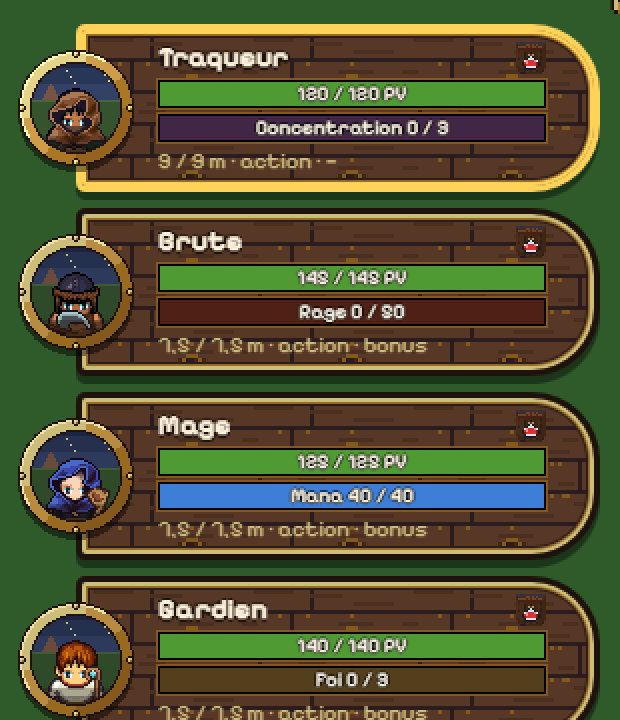
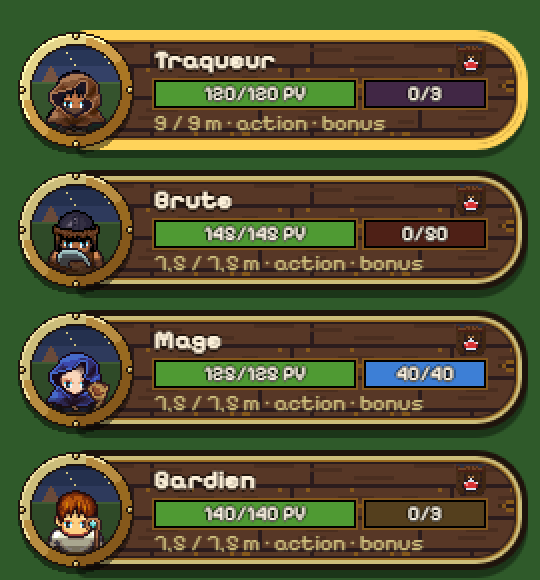
Le combat : les fiches des héros en version compacte
La vie et la ressource sur une même ligne (la ressource se reconnaît à sa couleur, son nom au survol), le bandeau plus bas (54 px) et plus court (256 px), les fiches plus serrées. Validé par Paolitus dans son navigateur.

diff --git a/src/entrainement/entrainement.css b/src/entrainement/entrainement.css
@@ -37,20 +37,22 @@ kbd { display: inline-block; min-width: 1.1em; padding: 0 3px; border: 1px solid
 /* les héros, à gauche : PV et ressource sur une ligne, la jauge dessous */
 /* les fiches des héros : le médaillon du héros du camp (33_cadres.js, ×1) et son bandeau de bois (DESIGN.fr.md §5) */
 :root { --res-rage: #c8402e; --res-mana: #3d7fd6; --res-concentration: #9a5ad6; --res-foi: #e0b04a; --res-energie: #4fa83a; --res-elan: #2fa79a; --vie-allie: #4f9a33; }
-.equipe-terrain { position: fixed; left: 8px; top: 72px; z-index: 8; display: grid; gap: 8px; width: 292px; }
-.fiche-heros { position: relative; display: block; width: 100%; min-height: 72px; margin: 0; padding: 0 0 0 30px; border: 0; background: none; text-align: left; cursor: pointer; color: var(--creme); font: 500 12px var(--titre); }
+.equipe-terrain { position: fixed; left: 8px; top: 72px; z-index: 8; display: grid; gap: 4px; width: 256px; }
+.fiche-heros { position: relative; display: block; width: 100%; min-height: 60px; margin: 0; padding: 0 0 0 30px; border: 0; background: none; text-align: left; cursor: pointer; color: var(--creme); font: 500 12px var(--titre); }
 .fiche-heros .fh-medaillon { position: absolute; left: 0; top: calc(50% - 30px); z-index: 1; width: 60px; height: 60px; image-rendering: pixelated; filter: drop-shadow(0 3px 0 rgba(0, 0, 0, .45)); }
-/* le bout arrondi fait 34 px : le texte et les jauges s'arrêtent avant la courbe */
-.fiche-heros .fh-bandeau { display: grid; gap: 3px; min-height: 72px; box-sizing: border-box; padding: 6px 24px 6px 38px; align-content: center;
-  background: var(--tex-bois) 0 0 / 80px 48px, var(--bois); border: 3px solid var(--bois-nuit); border-radius: 5px 34px 34px 5px;
+/* le bout arrondi fait 26 px : le texte et les jauges s'arrêtent avant la courbe (la version compacte : 54 px de haut) */
+.fiche-heros .fh-bandeau { display: grid; gap: 2px; min-height: 54px; margin: 3px 0; box-sizing: border-box; padding: 4px 18px 4px 36px; align-content: center;
+  background: var(--tex-bois) 0 0 / 80px 48px, var(--bois); border: 3px solid var(--bois-nuit); border-radius: 5px 26px 26px 5px;
   box-shadow: inset 0 0 0 2px var(--laiton-clair), inset 0 0 0 3px var(--laiton-fonce), inset 0 0 0 4px var(--bois-fonce), 0 4px 0 rgba(0, 0, 0, .4); image-rendering: pixelated; }
 .fiche-heros .fh-titre { display: flex; align-items: center; gap: 6px; min-width: 0; }
-.fiche-heros strong { font: 700 14px/16px var(--titre); text-shadow: var(--contour-or); white-space: nowrap; overflow: hidden; text-overflow: ellipsis; }
+.fiche-heros strong { font: 700 13px/15px var(--titre); text-shadow: var(--contour-or); white-space: nowrap; overflow: hidden; text-overflow: ellipsis; }
 .fiche-heros .fh-potion { margin-left: auto; display: inline-flex; }
 .fiche-heros .fh-potion img { width: 15px; height: 16px; image-rendering: pixelated; }
 .fiche-heros .fh-potion.bue img { filter: grayscale(1); opacity: .35; }
 /* une jauge (DESIGN §5) : bois nuit, bordure noire 1 px, anneau bois clair, remplissage plein, le texte dedans */
-.fh-jauge { position: relative; display: block; height: 12px; background: var(--bois-nuit); border: 1px solid #000; box-shadow: 0 0 0 1px var(--bois-clair); overflow: hidden; }
+.fh-jauges { display: grid; grid-template-columns: 1.65fr 1fr; gap: 4px; }
+.fh-jauges.seule { grid-template-columns: 1fr; }
+.fh-jauge { position: relative; display: block; min-width: 0; height: 12px; background: var(--bois-nuit); border: 1px solid #000; box-shadow: 0 0 0 1px var(--bois-clair); overflow: hidden; }
 .fh-jauge .rempli { position: absolute; left: 0; top: 0; bottom: 0; background: var(--vie-allie); transition: width .25s; }
 .fh-jauge.pv.bas .rempli { background: var(--braise); }
 .fh-jauge .texte { position: relative; display: block; text-align: center; font: 500 10px/12px var(--titre); color: #fff7e6; white-space: nowrap;
@@ -61,7 +63,7 @@ kbd { display: inline-block; min-width: 1.1em; padding: 0 3px; border: 1px solid
 .fh-jauge[data-res="Énergie"] { --c: var(--res-energie); } .fh-jauge[data-res="Élan"] { --c: var(--res-elan); }
 .fh-jauge.res { background: color-mix(in srgb, var(--c) 28%, var(--bois-nuit)); }
 .fh-jauge.res .rempli { background: var(--c); }
-.fiche-heros .fh-ligne { font: 500 11px/13px var(--titre); color: var(--laiton-clair); white-space: nowrap; overflow: hidden; text-overflow: ellipsis; }
+.fiche-heros .fh-ligne { font: 500 11px/12px var(--titre); color: var(--laiton-clair); white-space: nowrap; overflow: hidden; text-overflow: ellipsis; }
 .fh-etats { color: var(--braise); }
 .fiche-heros.choisi .fh-bandeau { border-color: var(--or); box-shadow: inset 0 0 0 2px var(--or), inset 0 0 0 3px var(--laiton-fonce), inset 0 0 0 4px var(--bois-fonce), 0 4px 0 rgba(0, 0, 0, .4); }
 .fiche-heros.choisi .fh-medaillon, .fiche-heros:hover .fh-medaillon { filter: drop-shadow(0 3px 0 rgba(0, 0, 0, .45)) brightness(1.12); }
@@ -210,7 +212,7 @@ kbd { display: inline-block; min-width: 1.1em; padding: 0 3px; border: 1px solid
 
 @media (max-width: 1280px) { .bas-terrain { max-width: calc(100vw - 16px); } .aide-terrain { display: none; } }
 @media (max-width: 900px) {
-  .equipe-terrain { width: 240px; } .droite-terrain { width: 200px; } .coin-phase { width: 200px; } 
+  .equipe-terrain { width: 220px; } .droite-terrain { width: 200px; } .coin-phase { width: 200px; } 
 }
 
 /* le choix de l'équipe, à l'accueil (#76) */

diff --git a/src/entrainement/interface.js b/src/entrainement/interface.js
@@ -475,16 +475,19 @@ function dessinerTout() {
     const u = combat.U(id), H = HEROS[u.type], actif = groupe.includes(id) && !u.ko;
     const etats = etatsDe(u);
     const pv = Math.max(0, u.pv), part = (v, max) => `width:${max ? Math.max(0, Math.min(100, (v / max) * 100)) : 0}%`;
-    const jauge = (classe, v, max, texte, extra = {}) => el('span', { class: `fh-jauge ${classe}`, role: 'meter', 'aria-valuemin': '0', 'aria-valuemax': String(max), 'aria-valuenow': String(v), 'aria-label': texte, ...extra },
-      el('span', { class: 'rempli', style: part(v, max) }), el('span', { class: 'texte' }, texte));
+    // une jauge : le texte écrit dedans (court), et le texte entier pour les lecteurs d'écran et au survol
+    const jauge = (classe, v, max, texte, court = texte, extra = {}) => el('span', { class: `fh-jauge ${classe}`, role: 'meter', 'aria-valuemin': '0', 'aria-valuemax': String(max), 'aria-valuenow': String(v), 'aria-label': texte, title: texte, ...extra },
+      el('span', { class: 'rempli', style: part(v, max) }), el('span', { class: 'texte' }, court));
     return el('button', { type: 'button', class: `fiche-heros${ui.sel === id ? ' choisi' : ''}${u.ko ? ' ko' : ''}${actif ? '' : ' attend'}${aMoi(id) ? '' : ' ami'}`, dataset: { heros: id }, onclick: () => choisirHeros(id),
       'aria-label': `${H.nom}${u.ko ? ', KO' : ''} : ${pv} sur ${u.pvMax} PV${u.res.max ? `, ${u.res.type} ${u.res.v} sur ${u.res.max}` : ''}` },
       el('img', { class: 'fh-medaillon', src: medaillonDe(u.type), alt: '' }),
       el('span', { class: 'fh-bandeau' },
         el('span', { class: 'fh-titre' }, el('strong', {}, H.nom, u.ko ? ' · KO' : ''), reseau ? joueurFiche(id) : null,
           el('span', { class: `fh-potion${u.potion ? '' : ' bue'}`, title: u.potion ? 'Sa potion' : 'Potion bue' }, el('img', { src: icone('potion'), alt: u.potion ? 'potion' : 'potion bue' }))),
-        jauge(`pv${u.pv <= u.pvMax * 0.3 ? ' bas' : ''}`, pv, u.pvMax, `${pv} / ${u.pvMax} PV`),
-        u.res.max ? jauge('res', u.res.v, u.res.max, `${u.res.type} ${u.res.v} / ${u.res.max}`, { dataset: { res: u.res.type } }) : null,
+        // la vie et la ressource sur une ligne (la version compacte) : la ressource se reconnaît à sa couleur
+        el('span', { class: `fh-jauges${u.res.max ? '' : ' seule'}` },
+          jauge(`pv${u.pv <= u.pvMax * 0.3 ? ' bas' : ''}`, pv, u.pvMax, `${pv} / ${u.pvMax} PV`, `${pv}/${u.pvMax} PV`),
+          u.res.max ? jauge('res', u.res.v, u.res.max, `${u.res.type} ${u.res.v} / ${u.res.max}`, `${u.res.v}/${u.res.max}`, { dataset: { res: u.res.type } }) : null),
         el('span', { class: 'fh-ligne' }, actif ? `${metres(u.t.mv)} / ${metres(u.vitesse)} m · ${u.t.action ? 'action' : '—'} · ${u.t.bonus ? 'bonus' : '—'}` : `${metres(u.vitesse)} m par tour`,
           etats.length ? el('span', { class: 'fh-etats' }, ` · ${etats.join(' · ')}`) : null)));
   }));

diff --git a/DESIGN.fr.md b/DESIGN.fr.md
@@ -85,7 +85,7 @@ Copier ces recettes ; ne pas en inventer une nouvelle sans l'ajouter ici.
 
 **Barre de vie sous un perso** (combat) : sous les pieds, sans cadre derrière ni nom. Jauge bois nuit, bordure noire 1 px et anneau bois clair 1 px (la recette de la jauge, en petit), remplissage rouge pour un ennemi, vert pour un allié, braise sous 30 % ; de près, les PV écrits dedans (Pixelify 10 px, ombre noire). Dessous, une icône par état en pixel art (rampes des icônes des capacités, contour sombre), ×1 de loin, ×2 de près, les tours qui restent en chiffre en bas à droite. Le détail de chaque état est dans la carte de survol. (à confirmer)
 
-**Cadre d'un héros en combat** (la colonne de gauche du terrain) : le médaillon du camp en petit (le même dessin, 60 × 60, ×1 : le héros LPC devant la scène de nuit, l'anneau de laiton), et à sa droite le bandeau de bois au bout arrondi (grain du bois, liseré laiton, rayon 34 px à droite). Dans le bandeau : le nom (Pixelify 14 px, contour sombre), le joueur et la potion ; la jauge de vie (12 px, vert allié, braise sous 30 %, « PV » écrits dedans) ; la jauge de la ressource (12 px, sa couleur de ressource, ci-dessous) ; dessous, déplacement, action, bonus et états en petit. Choisi : liseré or ; pas son tour : terni ; KO : gris.
+**Cadre d'un héros en combat** (la colonne de gauche du terrain) : le médaillon du camp en petit (le même dessin, 60 × 60, ×1 : le héros LPC devant la scène de nuit, l'anneau de laiton), et à sa droite le bandeau de bois au bout arrondi (grain du bois, liseré laiton, rayon 26 px à droite, 54 px de haut : la version compacte, 20 oct). Dans le bandeau : le nom (Pixelify 13 px, contour sombre), le joueur et la potion ; sur une même ligne, la jauge de vie (12 px, vert allié, braise sous 30 %, « PV » écrits dedans) et celle de la ressource (12 px, sa couleur de ressource ci-dessous, le vide teinté d'elle, les chiffres dedans ; le nom de la ressource au survol) ; dessous, déplacement, action, bonus et états en petit. Choisi : liseré or ; pas son tour : terni ; KO : gris.
 
 **Couleurs des ressources** (jauges de combat) : Rage `--res-rage #c8402e`, Mana `--res-mana #3d7fd6`, Concentration `--res-concentration #9a5ad6`, Foi `--res-foi #e0b04a`, Énergie `--res-energie #4fa83a`, Élan **(à confirmer)** `--res-elan #2fa79a`.
 
